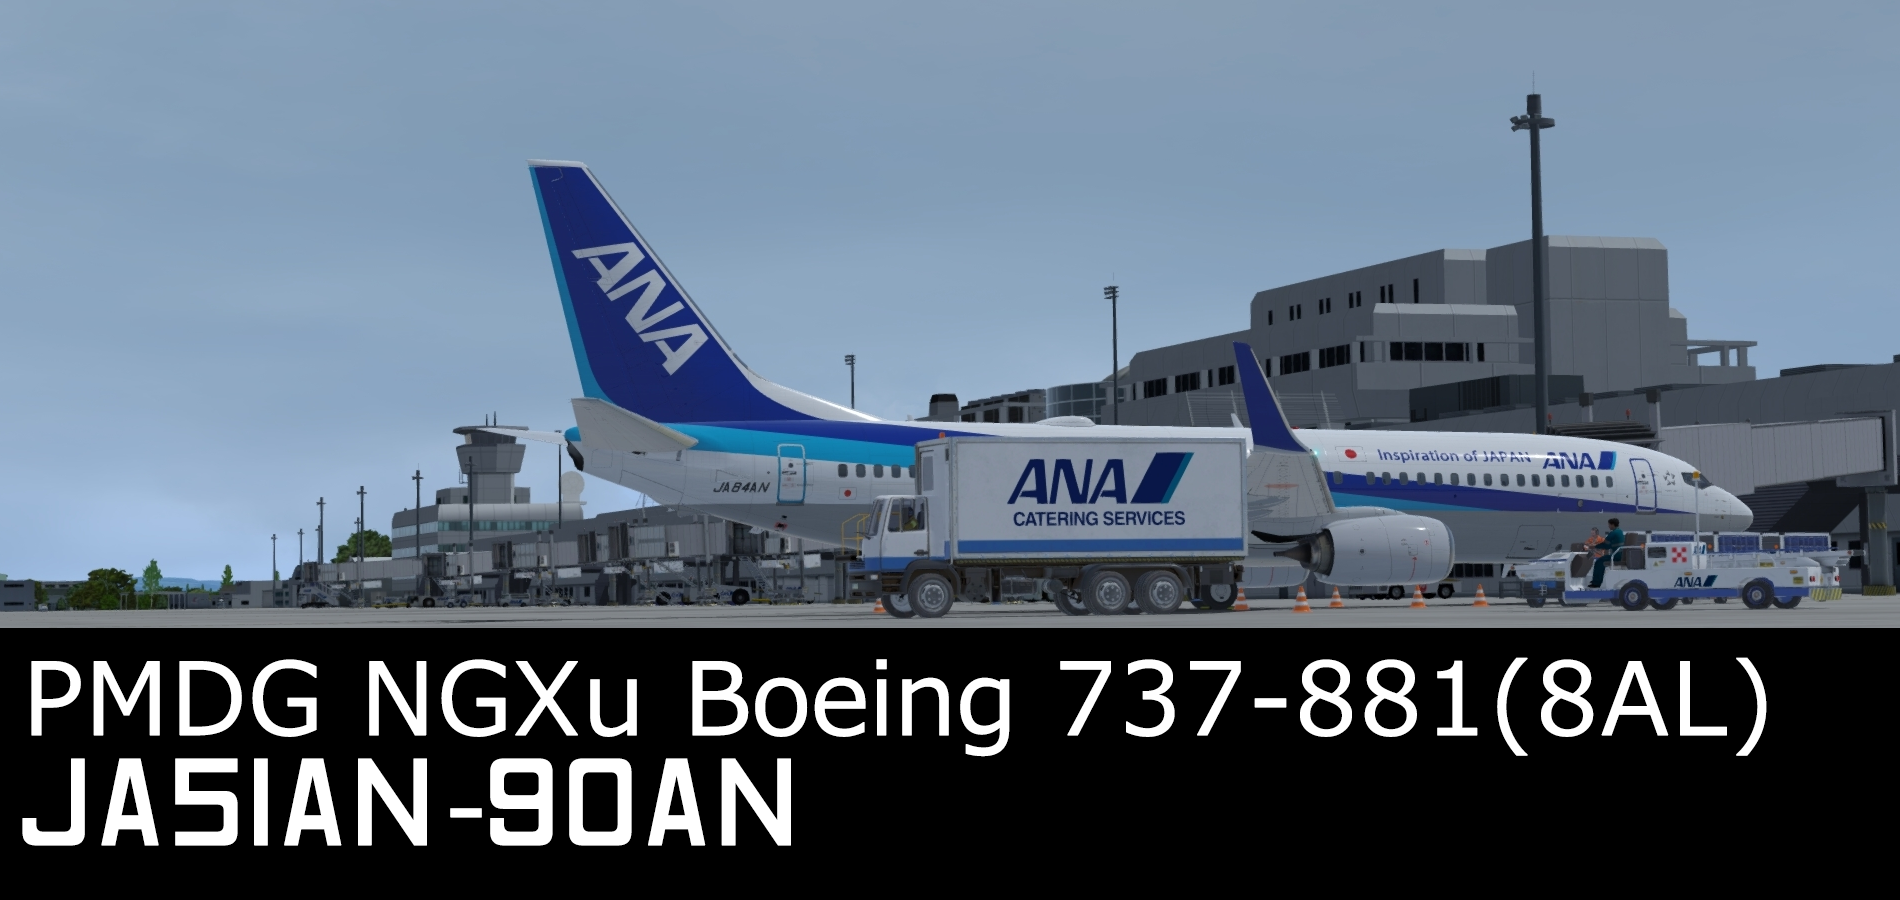
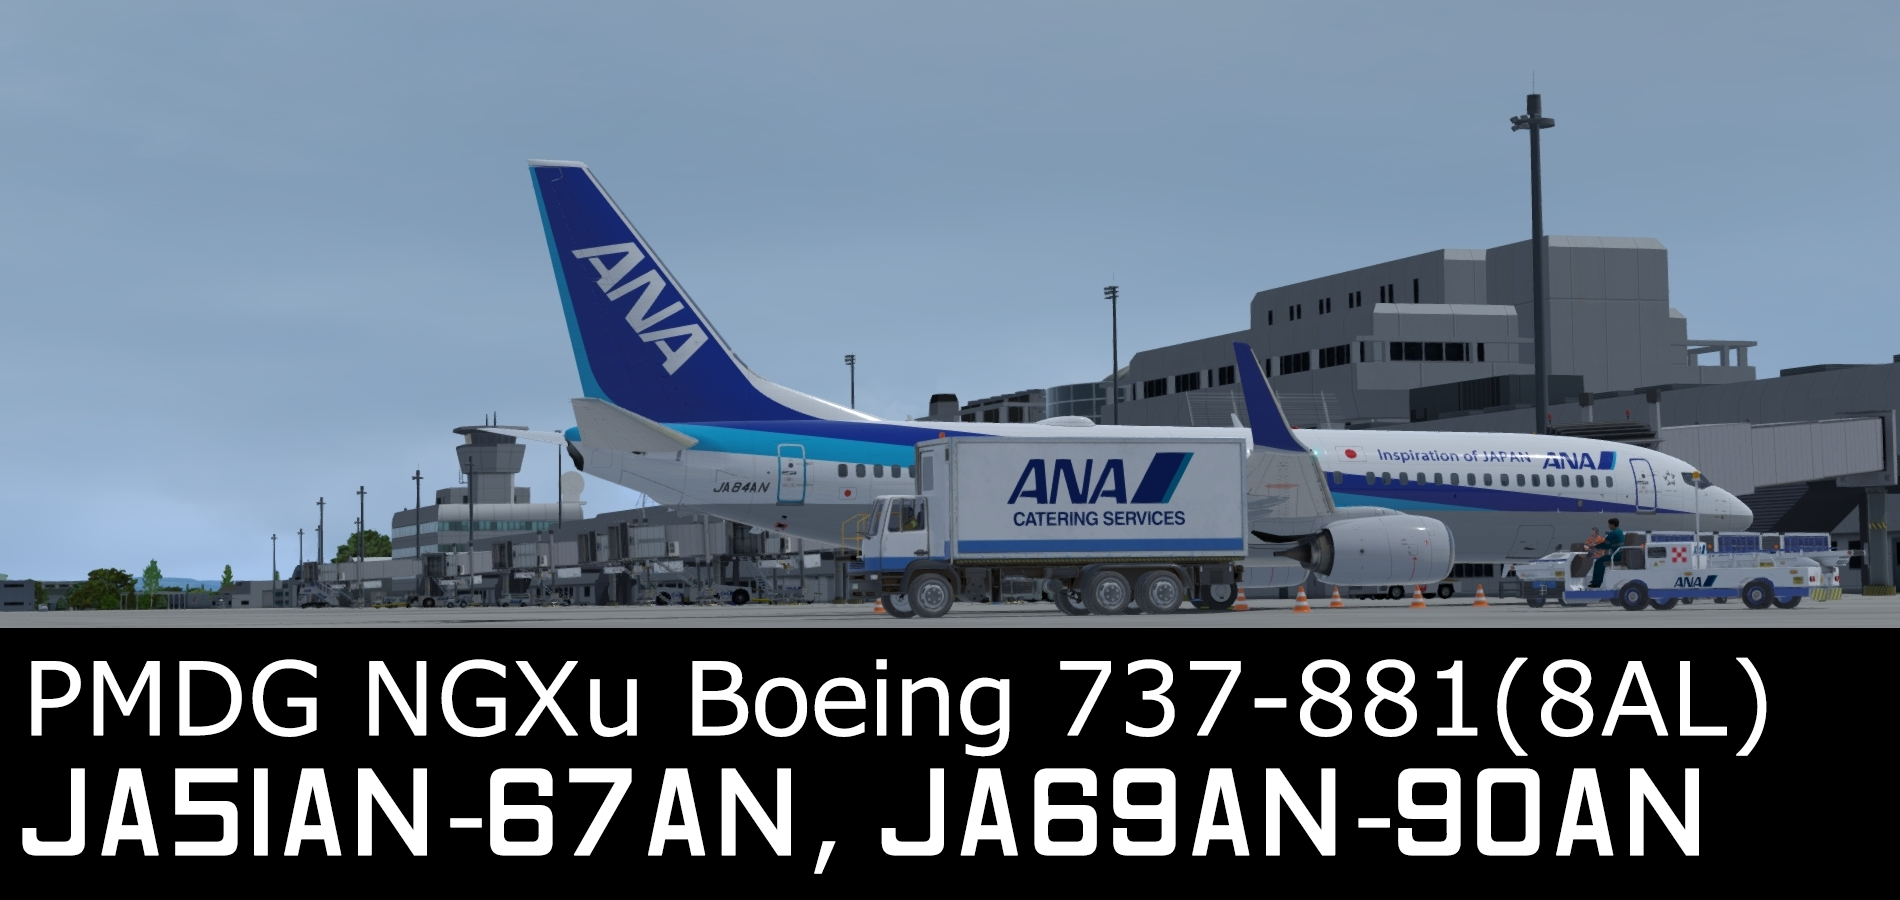
hotfix

Changed region(s): [[0.4658, 0.84, 0.9005, 0.9644], [0.0, 0.84, 0.4037, 0.9644], [0.4037, 0.9333, 0.4347, 0.9644]]

diff --git a/repscene/en/repaints/index.html b/repscene/en/repaints/index.html
@@ -6,7 +6,7 @@
 -->
 <html>
 	<head>
-		<title>Repaints/Scenery</title>
+		<title>Repaints</title>
 		<meta charset="utf-8" />
 		<meta name="viewport" content="width=device-width, initial-scale=1" />
 		<link rel="stylesheet" href="../../../assets/css/main.css" />
@@ -20,7 +20,7 @@
 					<ul>
 						<li><a href="../../../index_en.html">Home</a></li>
 						<li><a href="../index.html">Repaints/Scenery</a></li>
-						<li><a href="../../fleet/en/index.html">Fleet List</a></li>
+						<li><a href="../../../fleet/en/index.html">Fleet List</a></li>
 						<li><a href="../../fpr_en.html">Flight Planned Routes</a></li>
 						<li><a href="https://voiceworldkoebu.wixsite.com/anavirtual2018">ANA Virtual</a></li>
 						<li><strong><a href="../../jp/repaints/index.html"><j><img src="../../../images/jflag.png" height="15">日本語</j></a></strong></li>
@@ -34,7 +34,7 @@
 			<section id="four" class="wrapper style6 major">
 					<div class="container">
 						<header class="major">
-							<h2>Repaints/Scenery</h2>
+							<h2>Repaints</h2>
 						</header>
 						</ul>
 					</div>
@@ -48,7 +48,7 @@
 							<div class="row">
 								<div class="6u 12u$(xsmall)">
 									<center><a href="../jp/index.html"><img src="../../../images/738.png" width="90%"></a></center>
-									<h4><center>PMDG NGXu 737-800 (JA51AN-JA90AN)<center></h4>
+									<h4><center>PMDG NGXu 737-881(8AL) (JA51AN-JA67AN, JA69AN-90AN)<center></h4>
 								</div>
 								<div class="6u$ 12u$(xsmall)">
 								</div>
